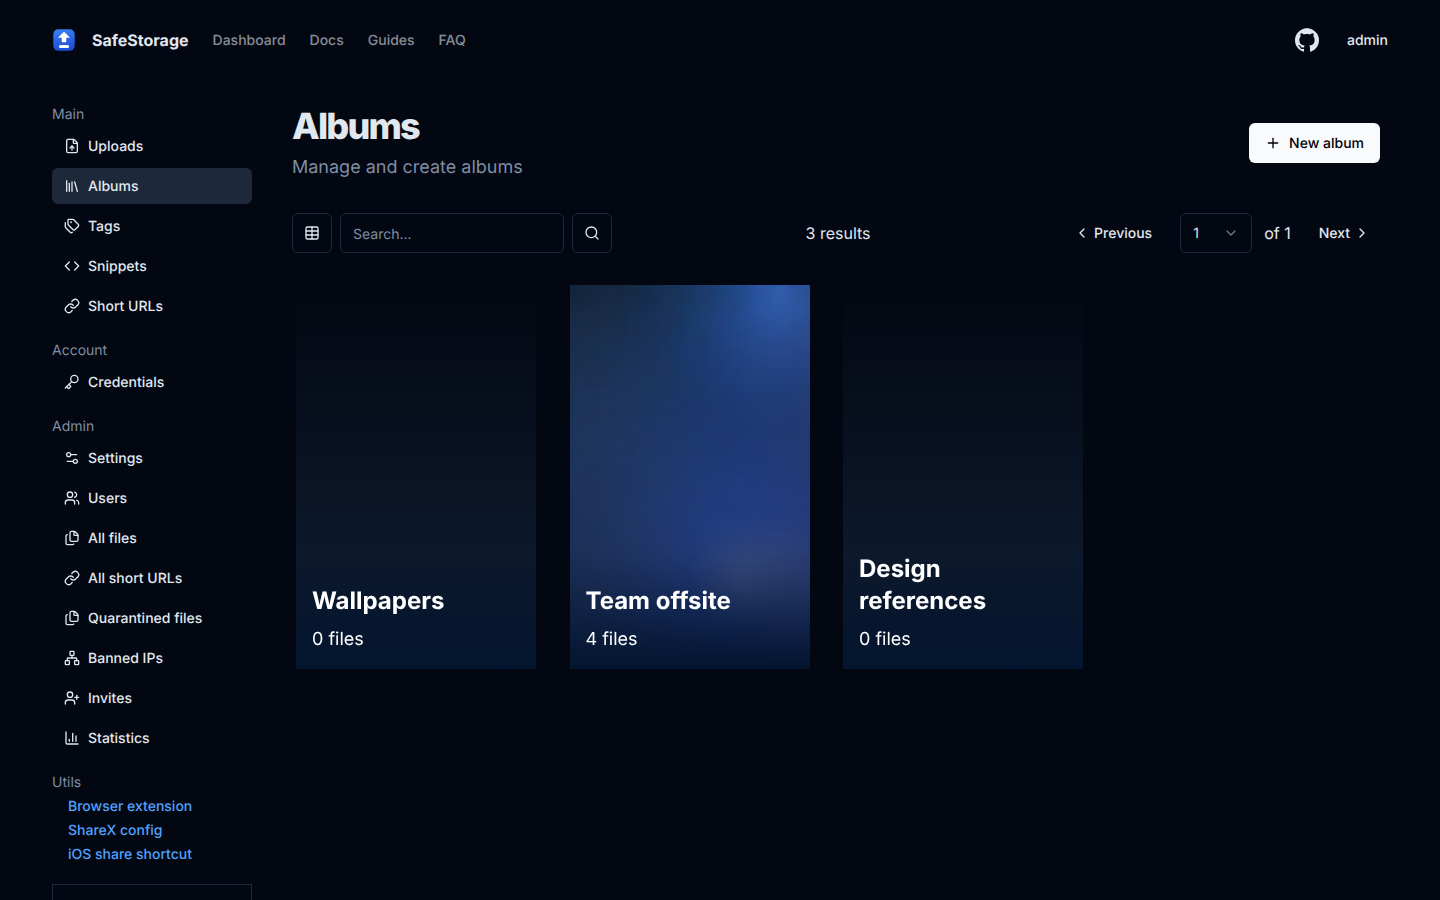
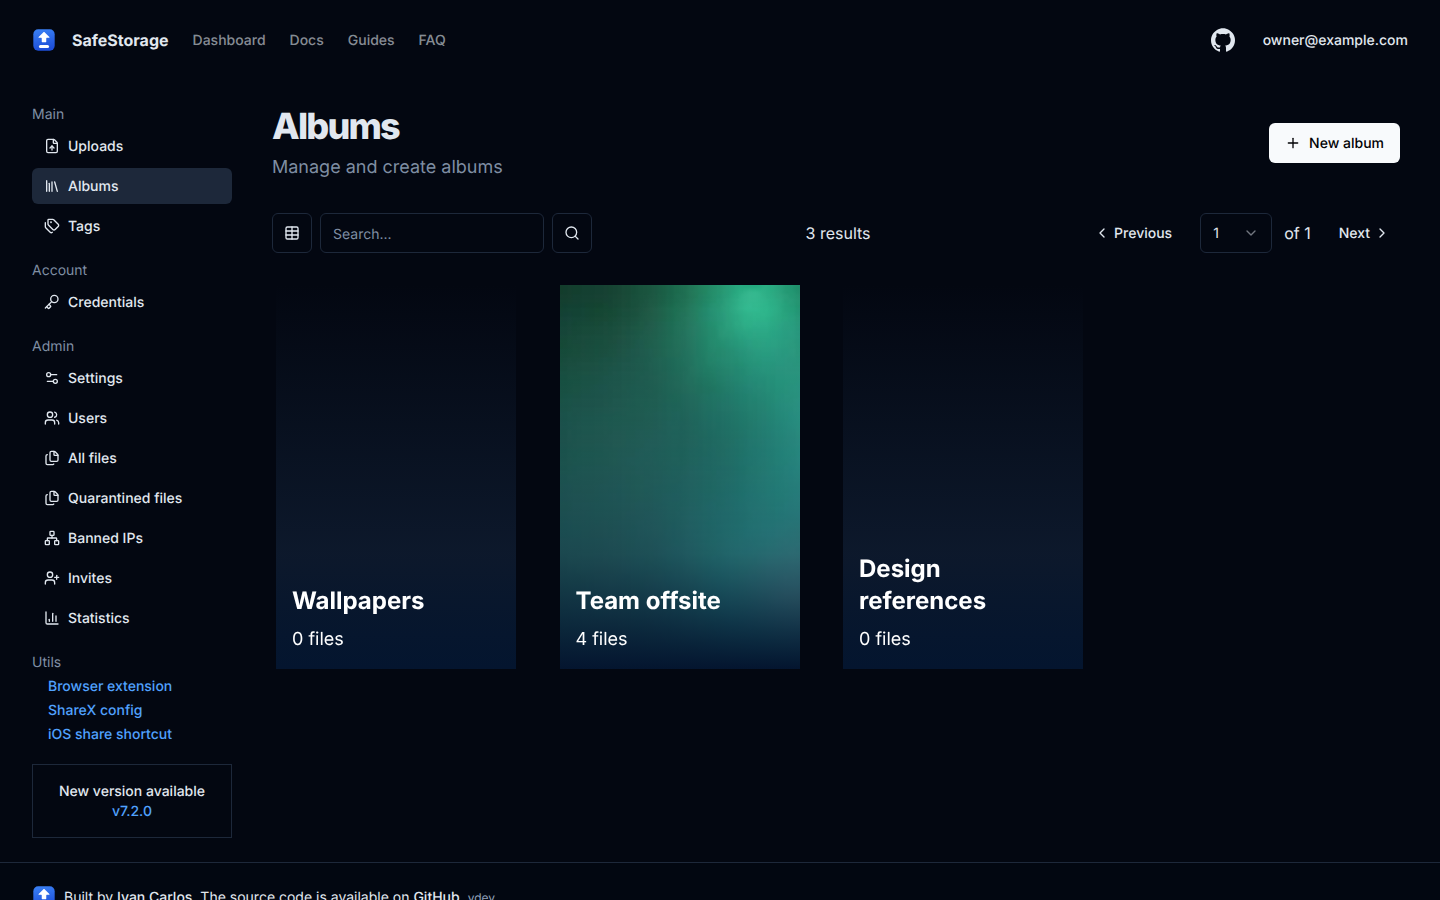
feat!(dashboard): remove standalone short URLs page
The YOURLS shortener stores nothing locally, so `/dashboard/links` could never
list, resolve or delete the links it created; it only duplicated the **Create
short URL** action available on every file.

- delete `packages/next/src/app/dashboard/links/page.tsx`, so `/dashboard/links` now answers 404 (no redirect)
- drop the `useUrlShortener`-gated **Short URLs** sidebar item and the now-unused `Link` icon import in `DashboardSidebar`
- reword `docs/configuration.md` so the shortener is documented as a file action only
- remove `docs/screenshots/short-urls.png` and its entries from `docs/screenshots/README.md`, `capture.mjs` and the root `README.md` screenshot table
- regenerate the remaining screenshots and reflow the README table without the Short URLs cell
- add `plans/2026-11-01-remove-short-urls-page.md` documenting the rationale, behaviour and known limits

BREAKING CHANGE: the `/dashboard/links` page no longer exists and returns 404.
Short URLs must now be created from the **Create short URL** entry in a file's
**Actions** menu or the file preview toolbar; existing bookmarks to the removed
page have no replacement route.

diff --git a/packages/next/src/components/DashboardSidebar.tsx b/packages/next/src/components/DashboardSidebar.tsx
@@ -11,8 +11,7 @@ import {
 	Settings2,
 	Tags,
 	UserPlus,
-	Users,
-	Link
+	Users
 } from 'lucide-react';
 
 import { currentUserAtom } from '@/lib/atoms/currentUser';
@@ -81,9 +80,6 @@ export function DashboardSidebar({ onClick }: { onClick?(): void }) {
 				<DashboardSidebarItem href="/dashboard" name="Uploads" Icon={FileUp} />
 				<DashboardSidebarItem href="/dashboard/albums" name="Albums" Icon={Library} />
 				<DashboardSidebarItem href="/dashboard/tags" name="Tags" Icon={Tags} />
-				{currentSettings?.useUrlShortener ? (
-					<DashboardSidebarItem href="/dashboard/links" name="Short URLs" Icon={Link} />
-				) : null}
 			</nav>
 			<nav className="grid items-start gap-1 mt-4" onClick={() => onClick?.()}>
 				<h3 className="text-muted-foreground text-sm pointer-events-none">Account</h3>

diff --git a/docs/configuration.md b/docs/configuration.md
@@ -154,11 +154,11 @@ _(`port`, `host`, `statisticsCron`, `updateCheckCron` and `enabledStatistics` ar
 
 ### Shortener
 
-Short URLs are not stored by SafeStorage: they are created on a [YOURLS](https://yourls.org) instance you run yourself, so the links keep working while this service is down and are managed (clicks, edit, delete) in the YOURLS admin area. The dashboard page at `/dashboard/links` therefore only creates links and shows the result once.
+Short URLs are not stored by SafeStorage: they are created on a [YOURLS](https://yourls.org) instance you run yourself, so the links keep working while this service is down and are managed (clicks, edit, delete) in the YOURLS admin area. SafeStorage only creates the link, from the **Create short URL** entry of a file's **Actions** menu, and shows the result once.
 
 | Setting           | Type    | Default   | Description                                                                                              |
 | ----------------- | ------- | --------- | -------------------------------------------------------------------------------------------------------- |
-| `useUrlShortener` | boolean | `false`   | Show the short-URL page and accept `POST /api/link/create`. Requires the two values below.                |
+| `useUrlShortener` | boolean | `false`   | Show the **Create short URL** file action and accept `POST /api/link/create`. Requires the two values below. |
 | `yourlsApiUrl`    | string  | _(empty)_ | Full URL of the YOURLS API endpoint, e.g. `https://sho.rt/yourls-api.php` (the `.php` file, not the site). |
 | `yourlsSignature` | string  | _(empty)_ | Signature token from YOURLS (**Tools → Secure passwordless API call**), used instead of a username and password. Keep it secret. |
 
@@ -166,7 +166,7 @@ Saving the settings refuses to enable the shortener while either value is missin
 
 A custom URL is optional, but YOURLS refuses duplicates: when the destination has already been shortened, or when the custom URL is taken or reserved, the API answers `409` with a message naming the conflict (and, for a duplicate destination, the short URL that already redirects there). Leaving the custom URL empty always works, because YOURLS then generates the keyword itself.
 
-While the shortener is enabled, `/dashboard/links` is not the only entry point: the **Actions** menu of every file (dashboard, albums, tags and the admin file lists) and the file preview toolbar carry a **Create short URL** entry that opens the same form with the file's public link already filled in as the destination. It is hidden on public album pages (there is no session to create the link with) and on quarantined files (they are only reachable once allowed).
+While the shortener is enabled, the **Actions** menu of every file (dashboard, albums, tags and the admin file lists) and the file preview toolbar carry a **Create short URL** entry that opens the form with the file's public link already filled in as the destination. It is hidden on public album pages (there is no session to create the link with) and on quarantined files (they are only reachable once allowed).
 
 ### Email
 

diff --git a/plans/2026-11-01-remove-short-urls-page.md b/plans/2026-11-01-remove-short-urls-page.md
@@ -1,0 +1,37 @@
+# 2026-11-01 - Remove the standalone Short URLs page
+
+## Why
+
+The YOURLS shortener creates links on an external instance and SafeStorage
+stores nothing, so `/dashboard/links` could never list, resolve or delete them.
+All it offered was a form that duplicates the **Create short URL** entry already
+present in every file's Actions menu and in the file preview toolbar — one extra
+sidebar item that only creates a link and then tells the user to copy it.
+
+## What changed
+
+| Layer     | Change                                                                                                                                            |
+| --------- | ------------------------------------------------------------------------------------------------------------------------------------------------- |
+| Frontend  | `app/dashboard/links/page.tsx` deleted; `/dashboard/links` no longer exists                                                                       |
+| Frontend  | `DashboardSidebar` no longer renders the `useUrlShortener`-gated **Short URLs** item (and drops the `Link` icon import)                           |
+| Docs      | README screenshot table reflowed without the Short URLs cell; `docs/screenshots/README.md` and `capture.mjs` no longer reference `short-urls.png` |
+| Docs      | `docs/configuration.md` describes the shortener as a file action only                                                                             |
+| Artefacts | `docs/screenshots/short-urls.png` removed and the remaining screenshots regenerated from a local image                                            |
+
+## Behaviour
+
+- The shortener itself is untouched: `CreateShortUrlDialog`,
+  `CreateShortUrlDrawer`, `LinksActions`, `POST /api/link/create`,
+  `utils/Shortener.ts` and the `useUrlShortener` / `yourlsApiUrl` /
+  `yourlsSignature` settings all keep working.
+- Links are created from the **Create short URL** entry of a file's
+  **Actions** menu (dropdown on desktop, drawer on mobile) and from the file
+  preview toolbar, with the file's public link already filled in.
+- `/dashboard/links` answers 404. There is no redirect: the page only ever
+  created links, so the file actions are the replacement.
+
+## Known limits
+
+- A bookmarked `/dashboard/links` URL now 404s.
+- The uncontrolled `DialogTrigger` / `DrawerTrigger` in the dialog and drawer
+  components have no caller left; they are kept as the components' default API.

diff --git a/README.md b/README.md
@@ -51,9 +51,8 @@ Every image below comes from a real SafeStorage instance, seeded with synthetic 
 | **Login · Account**<br>![The email and password login form](docs/screenshots/login.png)       | **Login · Single sign-on**<br>![The single sign-on login screen](docs/screenshots/login-keycloak.png) |
 | **Landing page**<br>![The public landing page](docs/screenshots/home.png)                     | **Albums**<br>![The album list](docs/screenshots/albums.png)                                          |
 | **Album**<br>![A single album with its files](docs/screenshots/album.png)                     | **Public album**<br>![A shared album page](docs/screenshots/public-album.png)                         |
-| **Tags**<br>![The tag list](docs/screenshots/tags.png)                                        | **Short URLs**<br>![The short URL creation page](docs/screenshots/short-urls.png)                     |
-| **Admin · Settings**<br>![The admin settings page](docs/screenshots/admin-settings.png)       | **Admin · Statistics**<br>![The admin statistics page](docs/screenshots/admin-statistics.png)         |
-| **API reference**<br>![The generated API reference at /docs](docs/screenshots/api-docs.png)   |                                                                                                       |
+| **Tags**<br>![The tag list](docs/screenshots/tags.png)                                        | **Admin · Settings**<br>![The admin settings page](docs/screenshots/admin-settings.png)               |
+| **Admin · Statistics**<br>![The admin statistics page](docs/screenshots/admin-statistics.png) | **API reference**<br>![The generated API reference at /docs](docs/screenshots/api-docs.png)           |
 
 ## Quick start (Docker)
 

diff --git a/docs/screenshots/README.md b/docs/screenshots/README.md
@@ -14,7 +14,6 @@ SafeStorage instance and photographs its pages.
 | `album.png`            | A single album (`/dashboard/albums/<uuid>`)               |
 | `public-album.png`     | Shared album view (`/a/<identifier>`)                     |
 | `tags.png`             | Tag list (`/dashboard/tags`)                              |
-| `short-urls.png`       | Short URL manager (`/dashboard/links`)                    |
 | `admin-settings.png`   | Admin → Settings (`/dashboard/admin/settings`)            |
 | `admin-statistics.png` | Admin → Statistics (`/dashboard/admin/statistics`)        |
 | `api-docs.png`         | The Scalar/OpenAPI reference (`/docs`)                    |
